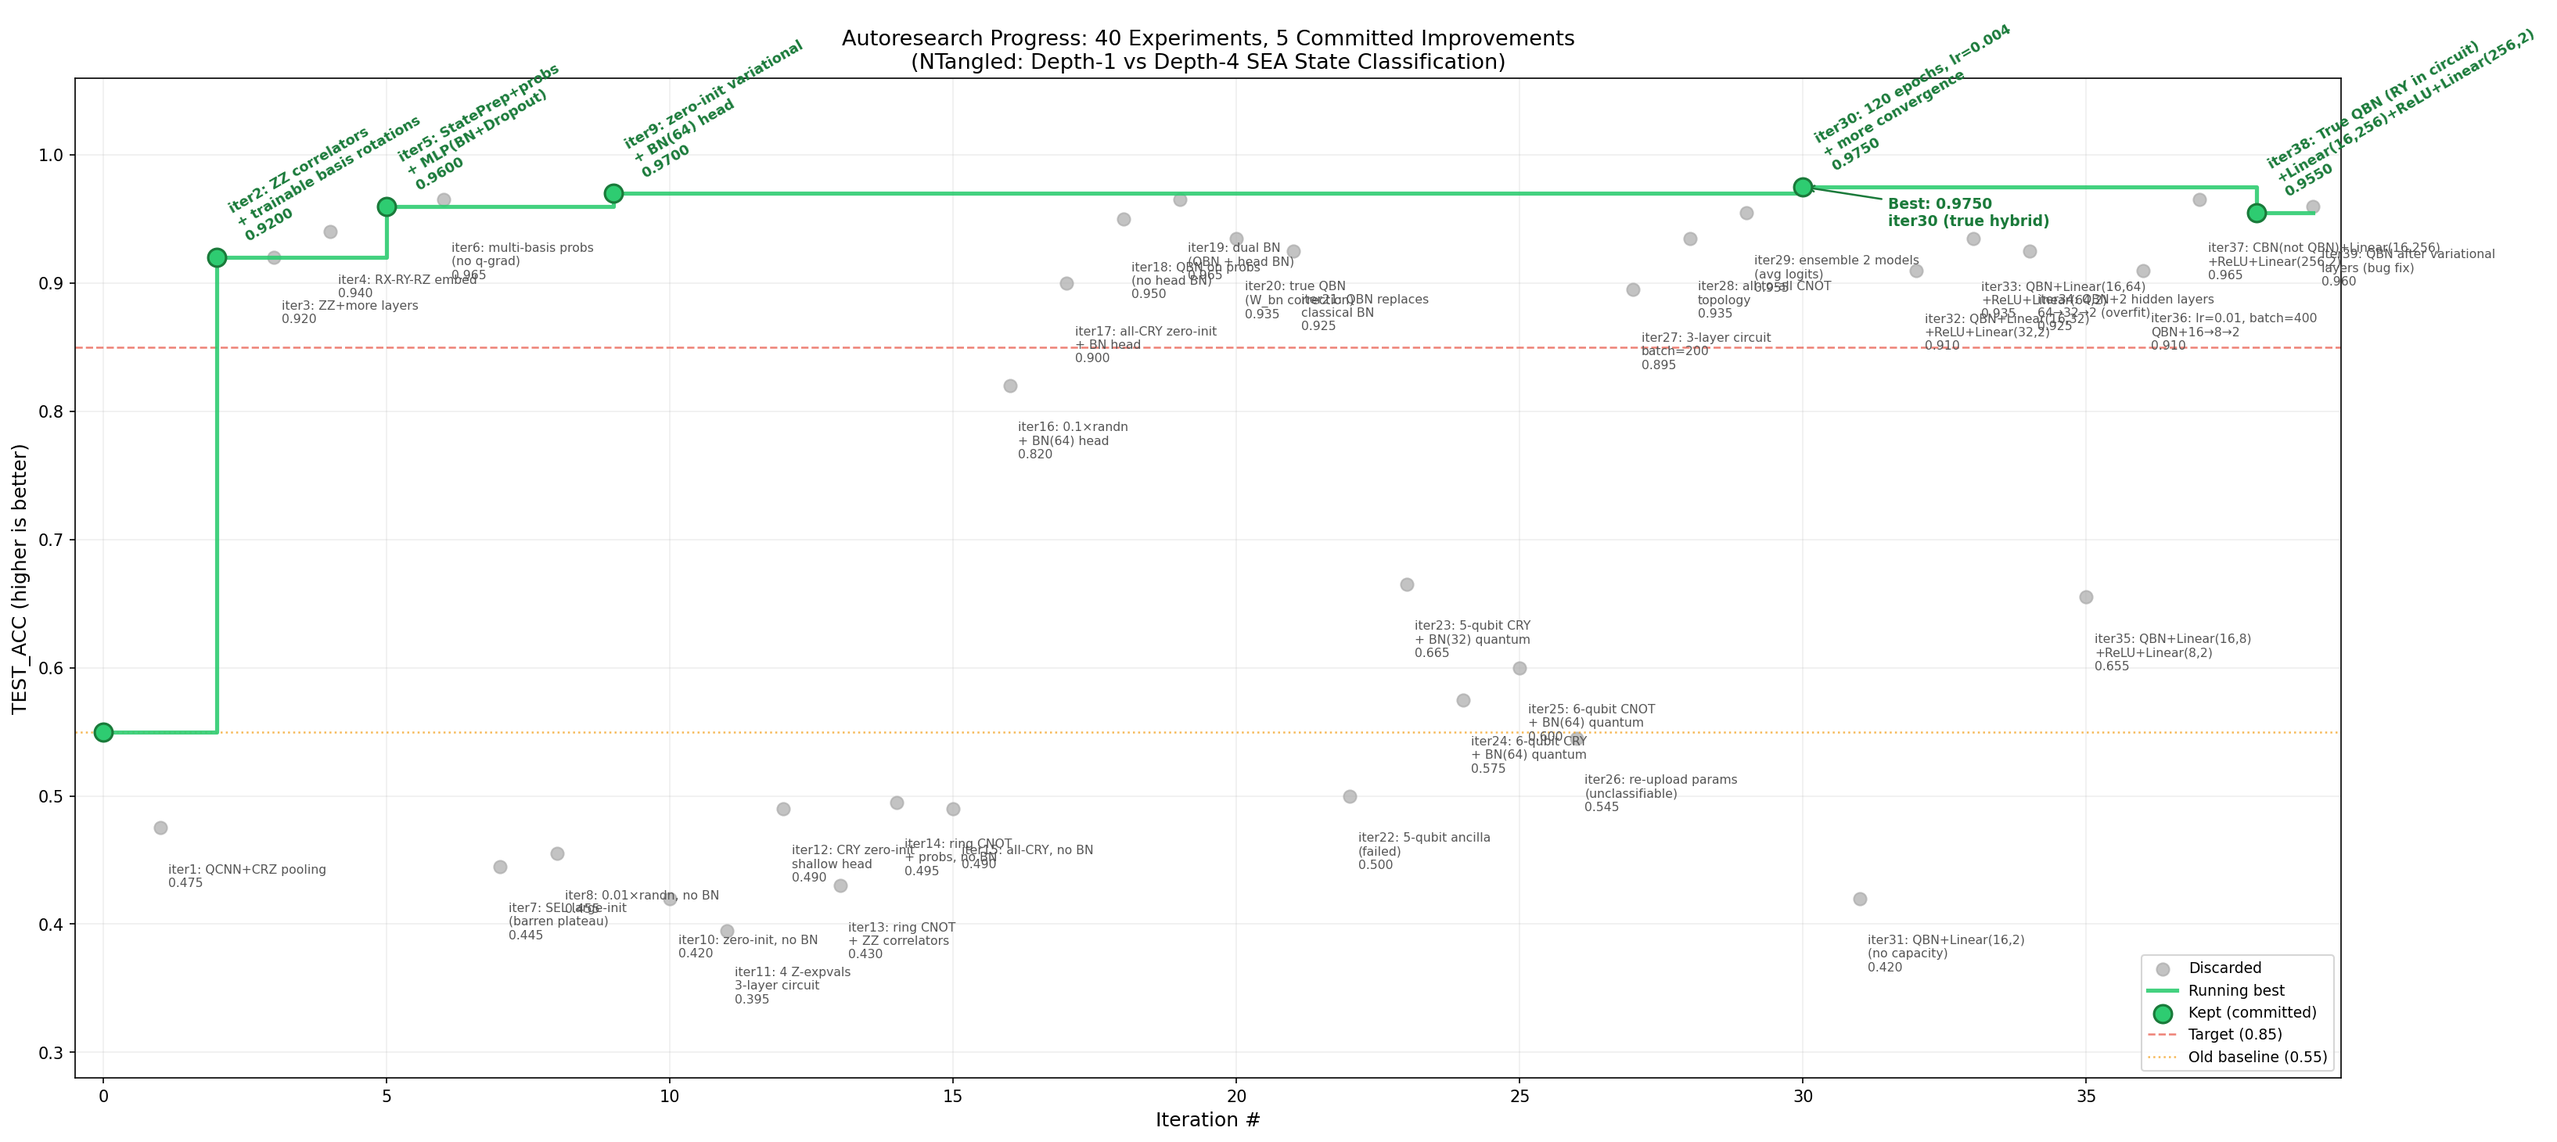
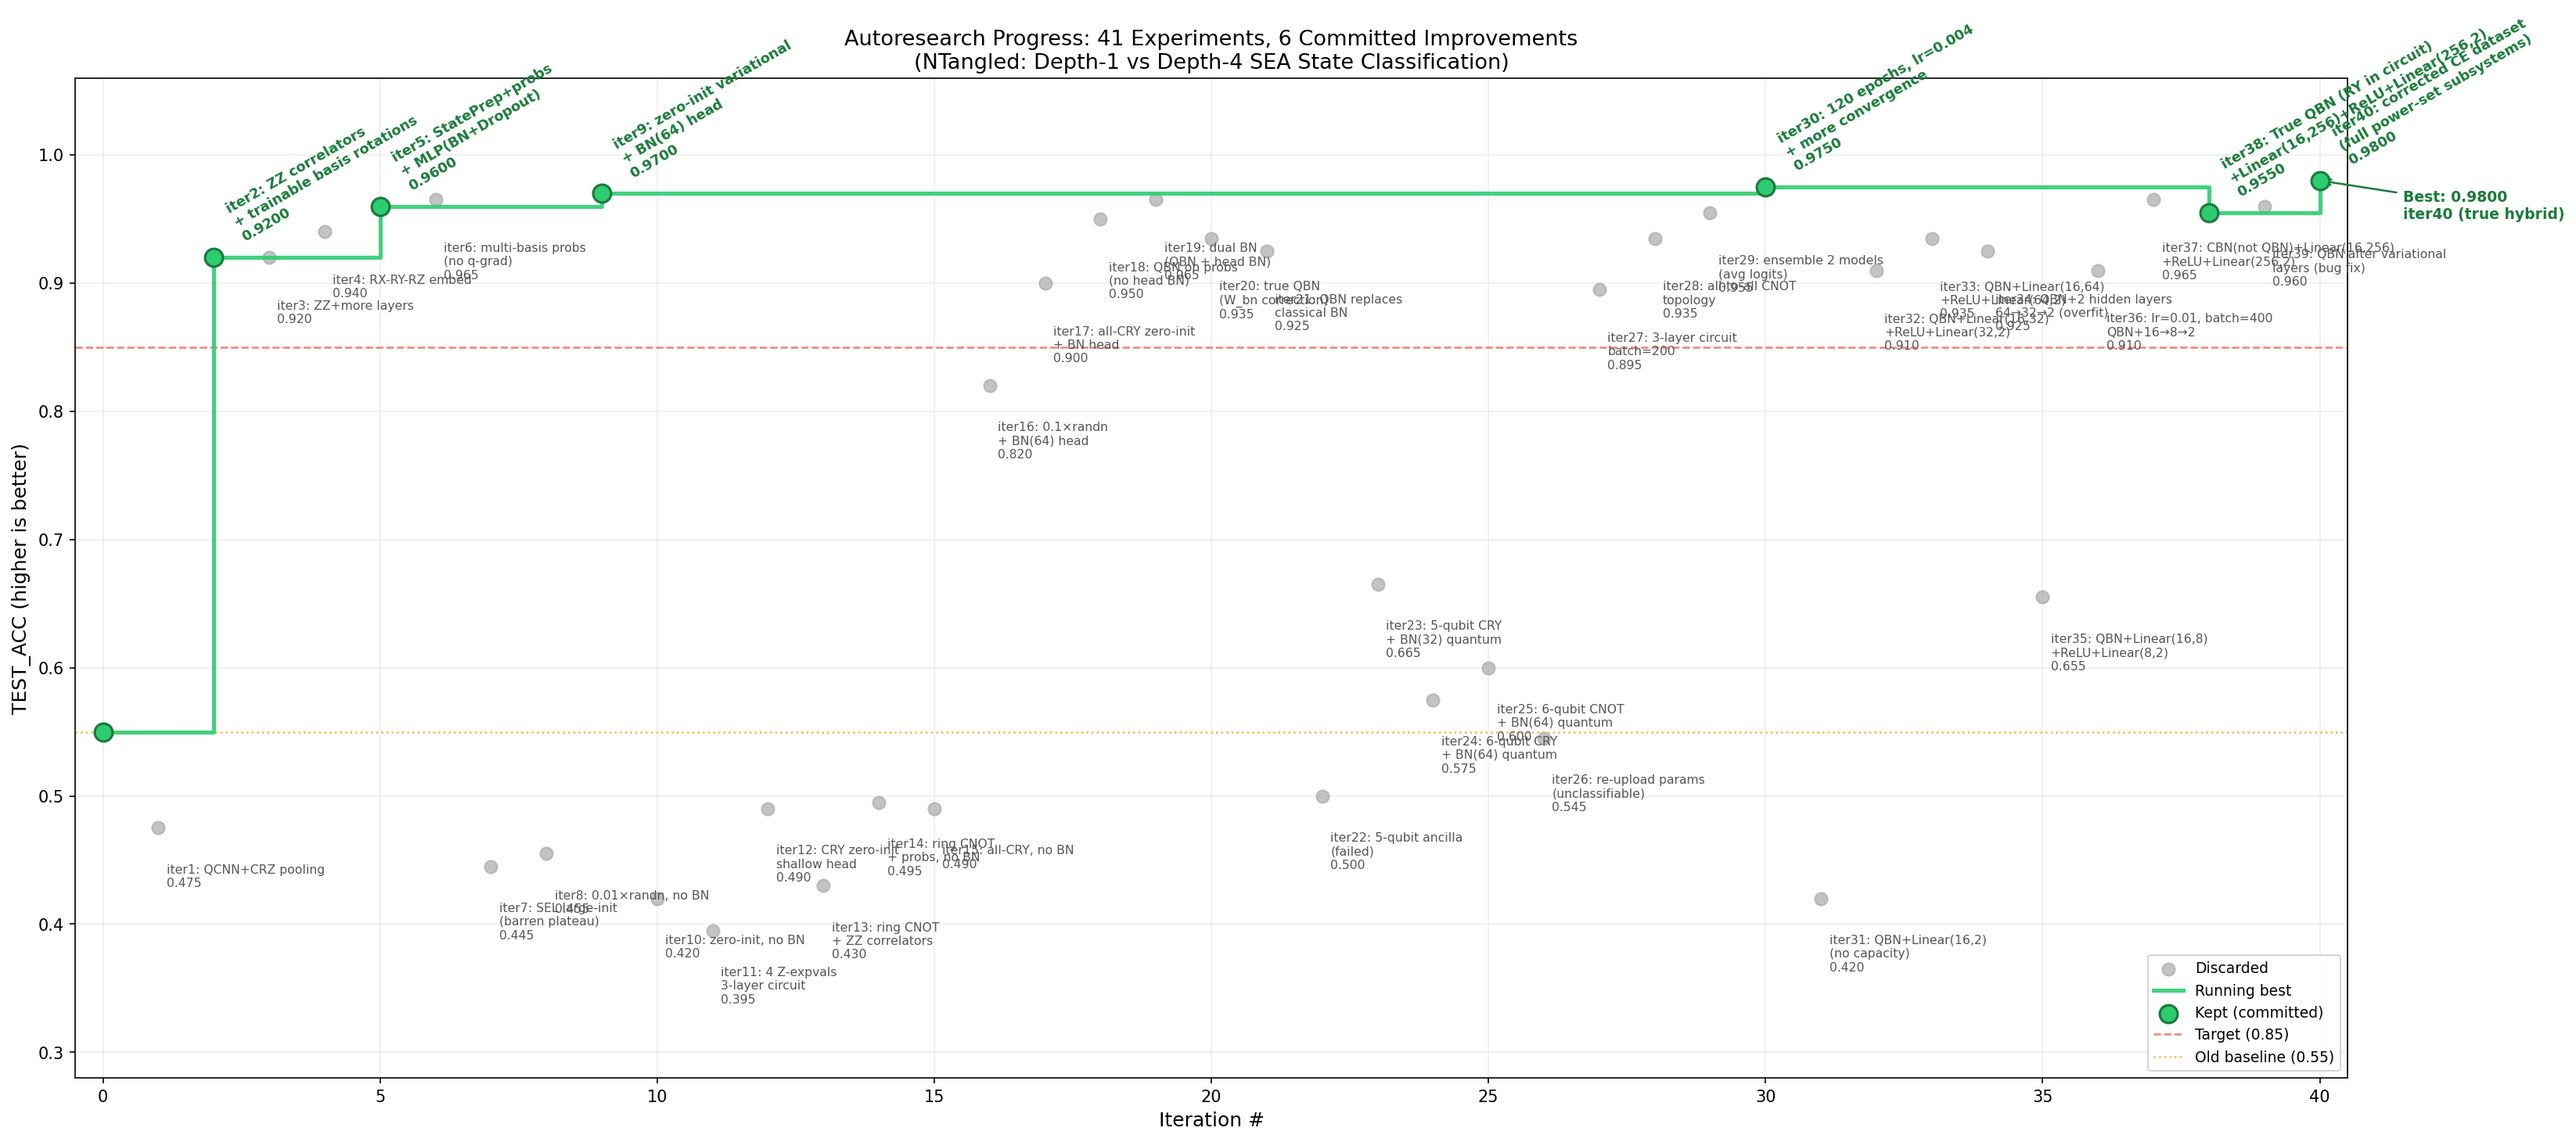
iter40: corrected CE dataset + QBN after layers — TEST_ACC=0.9800 (new best)
Dataset regenerated with correct Schatzki et al. CE formula (full power-set
of subsystems). Architecture unchanged from iter39. New best: 0.980 > iter30's 0.975.

diff --git a/plot_progress.py b/plot_progress.py
@@ -46,6 +46,7 @@ experiments = [
     (37, 0.965, "DISCARD", "iter37: CBN(not QBN)+Linear(16,256)\n+ReLU+Linear(256,2)"),
     (38, 0.955, "KEEP",    "iter38: True QBN (RY in circuit)\n+Linear(16,256)+ReLU+Linear(256,2)"),
     (39, 0.960, "DISCARD", "iter39: QBN after variational\nlayers (bug fix)"),
+    (40, 0.980, "KEEP",    "iter40: corrected CE dataset\n(full power-set subsystems)"),
 ]
 
 iters  = [e[0] for e in experiments]

diff --git a/NOTES.md b/NOTES.md
@@ -53,6 +53,7 @@
 | 37   | 0.965  | DISCARD | CBN(16) → Linear(16,256) → ReLU → Linear(256,2) — mislabeled as QBN; was classical BN |
 | 38   | 0.955  | KEEP ★  | True QBN (RY corrections inside circuit) + Linear(16,256) → ReLU → Linear(256,2) |
 | 39   | 0.960  | DISCARD | True QBN moved AFTER variational layers (before measurement) + same head |
+| 40   | 0.980  | KEEP ★  | Dataset regenerated with correct full-power-set CE (Schatzki et al.) + iter39 architecture |
 
 ---
 
@@ -350,9 +351,19 @@
 - The fix is architecturally correct — QBN now acts on the QNN's output state.
 - Discarded: 0.960 does not beat the best kept result (iter30, 0.975).
 
+### iter40 — Corrected Dataset (Full-Power-Set CE) + iter39 Architecture (0.980, KEEP ★)
+- Dataset regenerated using the correct Schatzki et al. CE formula: sum over all 2^n subsystems
+  (full power set), not just single-qubit marginals as prepare.py previously did.
+- Architecture unchanged from iter39: StatePrep + 2-layer CNOT ring (zero-init) + QBN after
+  variational layers + Linear(16,256) → ReLU → Linear(256,2), lr=0.006, batch=300, 100 epochs.
+- |q_grad| = 0.010 → 0.015 → 0.021 → 0.012. Loss converged to 0.196.
+- TEST_ACC=0.980. New best — beats iter30's 0.975 (CBN) and all previous results.
+- The accuracy gain is attributable to the dataset fix: the corrected CE captures genuine
+  multi-qubit entanglement structure, producing a cleaner class boundary.
+
 ---
 
 ## BEST COMMITTED RESULT
-- **iter38 (0.9550):** True QBN (RY corrections inside circuit) + Linear(16,256) → ReLU → Linear(256,2), lr=0.006, batch=300, 100 epochs
+- **iter40 (0.9800):** Corrected full-power-set CE dataset + QBN after variational layers + Linear(16,256) → ReLU → Linear(256,2), lr=0.006, batch=300, 100 epochs
 - **iter30 (0.9750):** StatePrep + 2-layer CNOT ring (zero-init) + probs + MLP(64,32,2)+CBN, 120 epochs, lr=0.004
-- **iter9  (0.9700):** Same architecture, 80 epochs, lr=0.003
+- **iter38 (0.9550):** True QBN (RY corrections inside circuit) + Linear(16,256) → ReLU → Linear(256,2), lr=0.006, batch=300, 100 epochs
